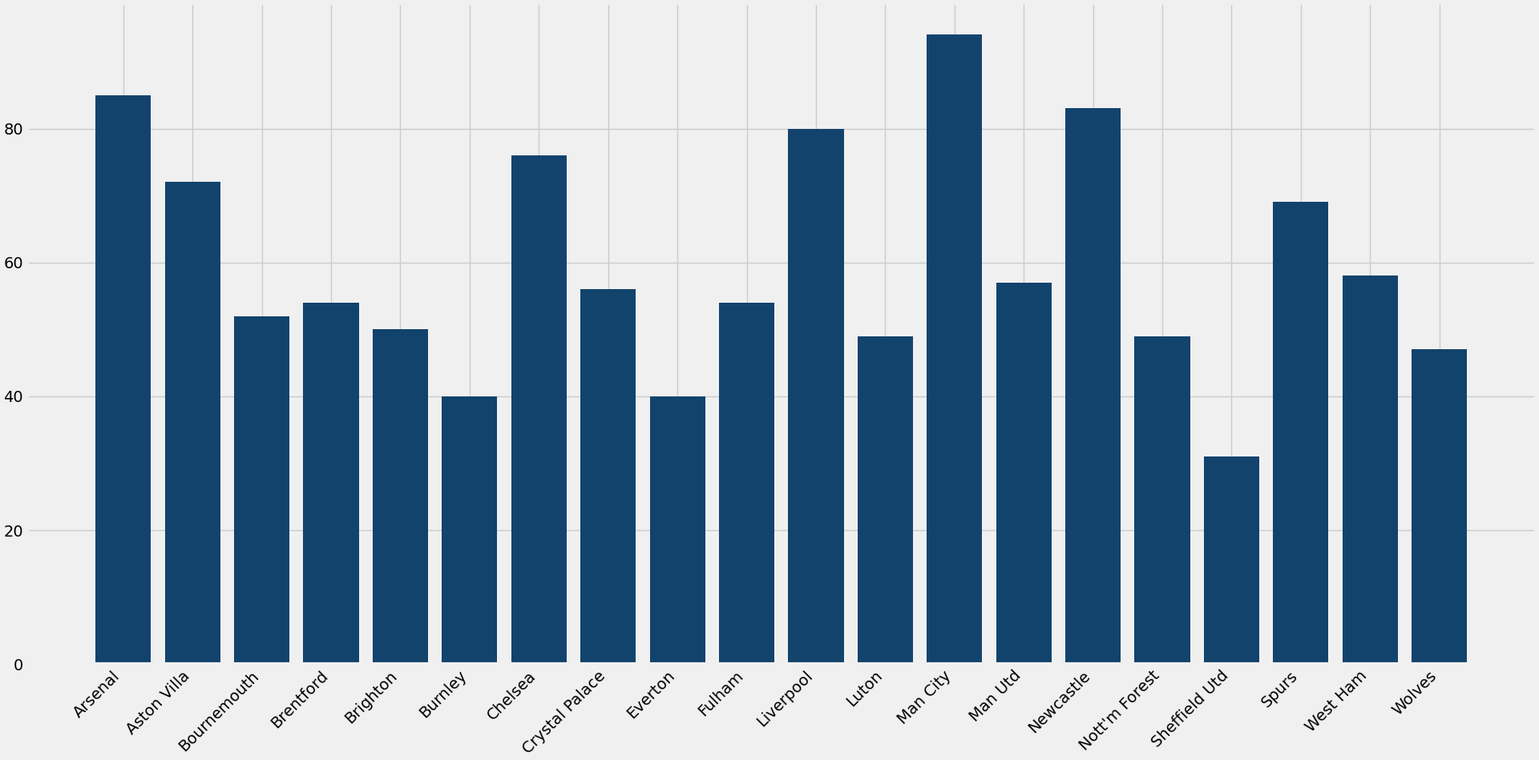
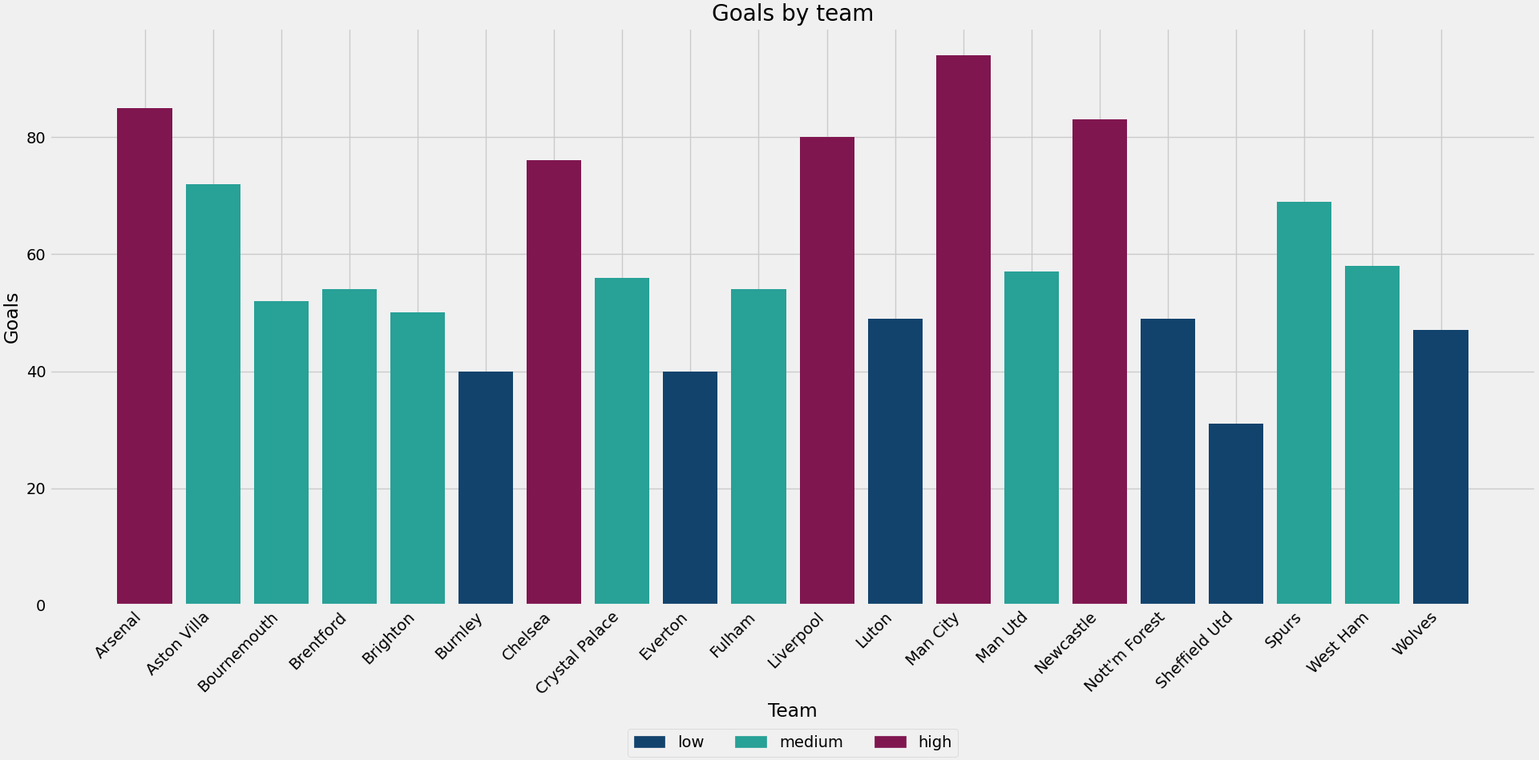
Finish readme

diff --git a/tests/create_dataframes.py b/tests/create_dataframes.py
@@ -1,215 +1,5 @@
-# speedy-charts
+import pandas as pd
 
-## Description
-This package is designed to make simple plotting easier, applying a logical syntax to a matplotlib backend!
-
-The following chart types are supported: Bar, Line, Scatter, Stacked Bar, Horizontal Stacked Bar, Grouped Bar
-
-## Installation
-To install the package, run the following code in the terminal:
-```terminal
-pip install speedy_charts@git+https://github.com/joey-frees/speedy-charts
-```
-Or run an equivalent command for your package manager of choice, for example in poetry:
-```terminal 
-poetry add speedy_charts@git+https://github.com/joey-frees/speedy-charts
-```
-
-## Usage
-### Importing the package
-To use the package you should use the following import statements at the top of your script:
-
-```python
-import matplotlib
-matplotlib.use('TkAgg')
-import matplotlib.pyplot as plt
-
-from speedy_charts.charts import Bar, Scatter, StackedBar, HorizontalStackedBar, GroupedBar, Line
-from speedy_charts.palettes import af_categorical
-```
-
-You can choose to only specify the charts and palettes htat you need for your specific task.
-
-The ```matplotlib.use('TkAgg')``` ensures that the plots can be displayed interactively.
-
-### General usage guidance
-The package syntax is based around two elements:
-1. The chart object - here, you specify arguments relating to the data that goes into the chart
-2. The plot method - here, you specify arguments relating to the visual aspects of the chart
-
-The chart object for example, contains arguments relating to the dataframe you are plotting from, x/y axis values and categorisation if applicable.
-
-The plot method on the other hand, contains arguments relating to colour palette, title, x/y axis labels and legend.
-
-You can also apply any additional transformations to the chart that aren't included in the plot method using standard matplotlib pyplot methods.
-
-**__Please note, you can recreate all of the dataframes used in the example code by running the code in '[Dataframes for chart examples](...)' section below.__**
-
-### Bar
-#### Basic Bar
-For a basic bar chart, you need to provide, x and y axis values and the dataframe in the chart object.
-
-All other arguments, including those in the plot method are optional, however axis labels and a title are recommended at a minimum.
-
-```python
-bar = Bar(x = 'team_x', y = 'goals_scored', df = df_season_team)
-
-plt.xticks(rotation=45, ha = 'right')
-
-plt.show()
-```
-
-<img src="assets/basic_bar.png" alt="Description" width="800" height="480">
-
-This code creates a basic bar chart, but also includes a transformation using a standard matplotlib method 'xticks' to rotate the x-axis labels.
-
-
-#### Applying categorical colours
-You can also add category arguments to a standard bar chart to colour the bars by a categorical or numeric variable:
-* If using a categorical column, this can be achieved by providing the 'category_column' arguments
-* If using a numeric column, this can be achieved by providing the 'category_column', 'category_list' and 'custom_ranges' arguments
-
-```python
-chart = Bar(x = 'team_x', y = 'goals_scored', df = df_season_team, category_column='goals_scored', category_list=['low', 'medium', 'high'], custom_ranges=[0,50,75,float('inf')])
-
-chart.plot(x_label='Team', y_label='Goals', title='Goals by team')
-
-plt.xticks(rotation=45, ha = 'right')
-
-plt.show()
-```
-
-<img src="assets/bar.png" alt="Description" width="800" height="480">
-
-
-In this example, the 'custom_ranges' argument specifies the ranges of the category_column that the colours will correspond to and the 'category_list' argument provides names for the ranges.
-Please note that the 'category_list' is always one element smaller than the 'custom_ranges', list.
-
-### Grouped Bar
-A grouped bar chart takes the same arguments as a standard bar chart but requires multiple y-axis values passed as a list.
-
-```python
-chart = GroupedBar(x = 'team_x', y = ['goals_scored', 'assists', 'yellow_cards'], df = df_season_team)
-
-chart.plot(colour_palette=af_categorical, title='Stats by Team', x_label='Team', y_label='Goals/Assists/Yellow Cards', legend=True)
-
-plt.xticks(rotation=45, ha = 'right')
-
-plt.show()
-```
-
-<img src="assets/grouped_bar.png" alt="Description" width="800" height="480">
-
-### Stacked Bar
-A stacked bar chart takes the same arguments as a standard bar chart but requires multiple y-axis values passed as a list, similar to the grouped bar.
-
-```python
-chart = StackedBar(x = 'team_x', y = ['goals_scored', 'assists', 'yellow_cards'], df = df_season_team)
-
-chart.plot(colour_palette=af_categorical, title='Stats by Team', x_label='Team', y_label='Goals/Assists/Yellow Cards', legend=True)
-
-plt.xticks(rotation=45, ha = 'right')
-
-plt.show()
-```
-
-<img src="assests/stacked_bar.png" alt="Description" width="800" height="480">
-
-### Horizontal Stacked Bar
-A horizontal stacked bar chart takes the same arguments as a standard bar chart but requires multiple y-axis values passed as a list, similar to the grouped bar and stacked bar.
-
-```python
-chart = HorizontalStackedBar(x = 'team_x', y = ['goals_scored', 'assists', 'yellow_cards'], df = df_season_team)
-
-chart.plot(colour_palette=af_categorical, title='Stats by Team', x_label='Goals/Assists/Yellow Cards', y_label='Team', legend=True)
-
-plt.show()
-```
-
-<img src="assets/horizontal_bar.png" alt="Description" width="800" height="480">
-
-### Line
-The code for producing a line chart also follows the structure of the standard bar and alternative bar charts.
-If you are creating a line chart with multiple lines you can supp;ly multiple y-axis values as a list.
-
-```python
-chart = Line(x = 'GW', y = ['cumulative_goals', 'cumulative_assists'], df = df_haaland)
-
-chart.plot(title='Haaland - Cumulative goals/assists', x_label='GW', y_label='Goals/Assists', legend=True)
-
-plt.show()
-```
-
-<img src="assets/line.png" alt="Description" width="800" height="480">
-
-### Scatter
-For a basic scatter plot the syntax is very similar to any other plot with x and y-axis values and a dataframe supplied in the initial chart object and the visual options defined in the plot method
-To add in categorical colours to the plot you will need to supply a category column argument. In this example an optional 'category list' argument is also supplied to re-order the categories and an alternative colour palette specified.
-
-```python
-chart = Scatter(x = 'minutes', y = 'influence', df = df_season_players, category_column='position', category_list=['GK', 'DEF', 'MID', 'FWD'])
-
-chart.plot(title='Influence by average minutes split by position', x_label='Mean Minutes', y_label='Mean Influence')
-
-plt.show()
-```
-
-<img src="assets/scatter.png" alt="Description" width="800" height="480">
-
-Similar to the bar chart you can add in custom ranges to the scatter plot by providing the 'category_list' and 'custom_ranges' arguments. The custom ranges are defined in the same way as the bar chart.
-In addition, there is an alternative colour palette applied to the scatter
-
-```python
-chart = Scatter(x = 'minutes', y = 'influence', df = df_season_players, category_column='influence', category_list=['Low', 'Medium', 'High', 'Very High'], custom_ranges=[0, 10, 20, 30, float('inf')])
-
-chart.plot(colour_palette=['#A1DAB4', '#41B6C4', '#2C7FB8', '#003479'], title='Influence by average minutes split by position', x_label='Mean Minutes', y_label='Mean Influence')
-
-plt.show()
-```
-
-<img src="assets/scatter_ranges.png" alt="Description" width="800" height="480">
-
-### Colour Palettes
-This package also includes a number of colour palettes that can be used in the plot method. The default palette consists of categorical colours.
-You can define the colour palette you want to use by specifying the 'colour_palette' argument in the plot method.
-
-These are defined in the palettes.py file and include:
-* af_categorical - a categorical colour palette with the standard analysis function colours
-* std_sequential_5/7/9 - a sequential colour palette with 5, 7 or 9 colours
-* oth_sequential_5/7/9 - a sequential colour palette with 5, 7 or 9 alternative colours
-* std_diverging_5/7/9 - a diverging colour palette with 5, 7 or 9 colours
-* oth_diverging_5/7/9 - a diverging colour palette with 5, 7 or 9 alternative colours
-
-You can also pass a custom colour palette to a chart by supplying a list of hex codes
-
-```python
-chart = Scatter(x = 'minutes', y = 'influence', df = df_season_players, category_column='influence', category_list=['Low', 'Medium', 'High', 'Very High'], custom_ranges=[0, 10, 20, 30, float('inf')])
-
-chart.plot(colour_palette=['#A1DAB4', '#41B6C4', '#2C7FB8', '#003479'], title='Influence by average minutes split by position', x_label='Mean Minutes', y_label='Mean Influence')
-
-plt.show()
-```
-
-<img src="assets/scatter_palette.png" alt="Description" width="800" height="480">
-
-### Themes
-Standard styling is applied to the package by default, but you can also apply a custom theme to the chart by using the 'theme' argument in the plot method.
-You can use standard matplotlib themes, pre-defined mplstyles, or create your own.
-
-Below is an example of how to apply an inbuilt matplotlib style:
-
-<img src="assets/scatter_ggplot.png" alt="Description" width="800" height="480">
-
-To apply a custom theme using an mplstyle you would structure your theme argument as follows:
-
-```python
-chart.plot(theme= 'speedy_charts.mplstyles.custom_theme')
-```
-
-## Dataframes for chart examples
-All example charts can be created using the following dataframes. You need to initialise these for the example code to work.
-
-```python
 df_season_team = {
     'team_x':['Arsenal', 'Aston Villa', 'Bournemouth', 'Brentford', 'Brighton', 'Burnley', 'Chelsea', 'Crystal Palace', 'Everton', 'Fulham', 'Liverpool', 'Luton', 'Man City', 'Man Utd', 'Newcastle', "Nott'm Forest", 'Sheffield Utd', 'Spurs', 'West Ham', 'Wolves'],
     'goals_scored':[85, 72, 52, 54, 50, 40, 76, 56, 40, 54, 80, 49, 94, 57, 83, 49, 31, 69, 58, 47],
@@ -218,9 +8,8 @@ df_season_team = {
 }
 
 df_season_team = pd.DataFrame(df_season_team)
-```
 
-```python
+
 df_season_players = {
     'position': ['FWD', 'DEF', 'DEF', 'GK', 'MID', 'DEF', 'MID', 'DEF', 'GK', 'MID', 'DEF', 'DEF', 'MID', 'MID', 'FWD', 'FWD', 'GK', 'DEF', 'MID', 'MID', 'FWD', 'FWD', 'MID', 'MID', 'MID', 'DEF', 'MID', 'DEF', 'FWD', 'DEF', 'MID', 'DEF', 'DEF', 'DEF', 'GK', 'GK', 'MID', 'MID', 'GK', 'GK', 'MID', 'MID', 'MID', 'DEF', 'DEF', 'DEF', 'MID', 'FWD', 'MID', 'MID', 'DEF', 'DEF', 'MID', 'MID', 'GK', 'MID', 'GK', 'DEF', 'DEF', 'MID', 'MID', 'MID', 'MID', 'MID', 'FWD', 'FWD', 'DEF', 'MID', 'FWD', 'FWD', 'GK', 'FWD', 'MID', 'DEF', 'DEF', 'DEF', 'DEF', 'MID', 'DEF', 'GK', 'GK', 'DEF', 'MID', 'DEF', 'DEF', 'MID', 'DEF', 'DEF', 'DEF', 'DEF', 'DEF', 'MID', 'FWD', 'MID', 'DEF', 'MID', 'DEF', 'DEF', 'DEF', 'DEF', 'MID', 'GK', 'MID', 'FWD', 'GK', 'MID', 'MID', 'MID', 'DEF', 'MID', 'MID', 'MID', 'MID', 'MID', 'GK', 'DEF', 'MID', 'MID', 'MID', 'MID', 'MID', 'MID', 'MID', 'FWD', 'DEF', 'GK', 'MID', 'FWD', 'DEF', 'FWD', 'DEF', 'DEF', 'FWD', 'MID', 'GK', 'MID', 'MID', 'MID', 'FWD', 'FWD', 'MID', 'FWD', 'MID', 'MID', 'DEF', 'DEF', 'MID', 'MID', 'FWD', 'DEF', 'DEF', 'DEF', 'FWD', 'DEF', 'MID', 'MID', 'MID', 'FWD', 'DEF', 'FWD', 'MID', 'DEF', 'DEF', 'MID', 'MID', 'DEF', 'DEF', 'MID', 'DEF', 'DEF', 'DEF', 'DEF', 'DEF', 'FWD', 'MID', 'GK', 'MID', 'MID', 'FWD', 'DEF', 'MID', 'FWD', 'FWD', 'MID', 'DEF', 'MID', 'GK', 'FWD', 'MID', 'FWD', 'MID', 'GK', 'DEF', 'GK', 'MID', 'FWD', 'MID', 'MID', 'MID', 'GK', 'FWD', 'GK', 'DEF', 'FWD', 'DEF', 'DEF', 'MID', 'DEF', 'MID', 'MID', 'FWD', 'FWD', 'DEF', 'GK', 'FWD', 'MID', 'MID', 'FWD', 'MID', 'MID', 'MID', 'DEF', 'MID', 'MID', 'GK', 'FWD', 'GK', 'MID', 'FWD', 'DEF', 'GK', 'MID', 'MID', 'FWD', 'DEF', 'DEF', 'DEF', 'MID', 'MID', 'MID', 'GK', 'FWD', 'FWD', 'MID', 'MID', 'MID', 'DEF', 'DEF', 'FWD', 'DEF', 'MID', 'GK', 'MID', 'DEF', 'FWD', 'FWD', 'DEF', 'GK', 'DEF', 'MID', 'MID', 'MID', 'DEF', 'DEF', 'GK', 'DEF', 'FWD', 'MID', 'DEF', 'FWD', 'MID', 'FWD', 'MID', 'GK', 'MID', 'MID', 'MID', 'FWD', 'FWD', 'MID', 'DEF', 'GK', 'DEF', 'MID', 'MID', 'DEF', 'MID', 'GK', 'FWD', 'MID', 'MID', 'DEF', 'MID', 'DEF', 'MID', 'MID', 'GK', 'MID', 'MID', 'DEF', 'MID', 'FWD', 'MID', 'MID', 'DEF', 'MID', 'DEF', 'MID', 'DEF', 'MID', 'FWD', 'DEF', 'DEF', 'MID', 'MID', 'MID', 'MID', 'DEF', 'DEF', 'GK', 'MID', 'FWD', 'GK', 'MID', 'MID', 'DEF', 'MID', 'DEF', 'FWD', 'DEF', 'GK', 'MID', 'DEF', 'MID', 'DEF', 'DEF', 'MID', 'DEF', 'FWD', 'GK', 'MID', 'MID', 'MID', 'MID', 'DEF', 'GK', 'FWD', 'MID', 'MID', 'MID', 'MID', 'MID', 'MID', 'MID', 'MID', 'MID', 'DEF', 'DEF', 'MID', 'DEF', 'DEF', 'MID', 'MID', 'DEF', 'MID', 'MID', 'MID', 'MID', 'GK', 'DEF', 'DEF', 'DEF', 'GK', 'MID', 'GK', 'FWD', 'MID', 'DEF', 'DEF', 'DEF', 'DEF', 'MID', 'GK', 'DEF', 'FWD', 'FWD', 'DEF', 'FWD', 'MID', 'MID', 'FWD', 'MID', 'MID', 'MID', 'MID', 'MID', 'MID', 'MID', 'FWD', 'DEF', 'DEF', 'MID', 'DEF', 'FWD', 'GK', 'DEF', 'MID', 'FWD', 'DEF', 'MID', 'FWD', 'MID', 'GK', 'MID', 'DEF', 'DEF', 'DEF', 'MID', 'DEF', 'MID', 'FWD', 'MID', 'DEF', 'FWD', 'DEF', 'DEF', 'MID', 'DEF', 'GK', 'MID', 'DEF', 'MID', 'MID', 'GK', 'MID', 'GK', 'DEF', 'DEF', 'MID', 'DEF', 'MID', 'MID', 'MID', 'DEF', 'MID', 'MID', 'GK', 'DEF', 'GK', 'MID', 'FWD', 'MID', 'DEF', 'DEF', 'MID', 'FWD', 'DEF', 'DEF', 'MID', 'MID', 'MID', 'MID', 'MID', 'MID', 'DEF', 'MID', 'MID', 'DEF', 'MID', 'MID', 'GK', 'GK', 'MID', 'FWD', 'DEF', 'DEF', 'GK', 'MID', 'DEF', 'MID', 'DEF', 'MID', 'FWD', 'DEF', 'DEF', 'GK', 'MID', 'DEF', 'DEF', 'DEF', 'MID', 'DEF', 'DEF', 'DEF', 'GK', 'GK', 'MID', 'MID', 'DEF', 'MID', 'MID', 'FWD', 'MID', 'DEF', 'MID', 'MID', 'DEF', 'DEF', 'FWD', 'MID', 'MID', 'MID', 'MID', 'DEF', 'DEF', 'DEF', 'GK', 'FWD', 'MID', 'DEF', 'DEF', 'DEF', 'MID', 'MID', 'GK', 'DEF', 'MID', 'MID', 'MID', 'GK', 'MID', 'DEF', 'MID', 'MID', 'MID', 'DEF', 'FWD', 'DEF', 'DEF', 'FWD', 'MID', 'DEF', 'MID', 'DEF', 'DEF', 'MID', 'MID', 'DEF', 'MID', 'DEF', 'MID', 'DEF', 'MID', 'DEF', 'DEF', 'GK', 'DEF', 'GK', 'MID', 'MID', 'MID', 'GK', 'MID', 'GK', 'GK', 'FWD', 'GK', 'GK', 'MID', 'MID', 'FWD', 'DEF', 'MID', 'MID', 'MID', 'MID', 'FWD', 'MID', 'DEF', 'GK', 'DEF', 'GK', 'MID', 'DEF', 'GK', 'GK', 'MID', 'MID', 'DEF', 'GK', 'MID', 'DEF', 'DEF', 'DEF', 'DEF', 'DEF', 'DEF', 'MID', 'MID', 'MID', 'DEF', 'FWD', 'FWD', 'MID', 'MID', 'FWD', 'MID', 'DEF', 'DEF', 'MID', 'MID', 'MID', 'MID', 'DEF', 'DEF', 'MID', 'MID', 'MID', 'MID', 'MID', 'MID', 'MID', 'MID', 'DEF', 'DEF', 'MID', 'MID', 'MID', 'MID', 'MID', 'DEF', 'DEF', 'FWD', 'DEF', 'MID', 'DEF', 'DEF', 'DEF', 'FWD', 'DEF', 'GK', 'FWD', 'MID', 'MID', 'MID', 'MID', 'MID', 'MID', 'FWD', 'GK', 'DEF', 'DEF', 'DEF', 'DEF', 'FWD', 'GK', 'DEF', 'MID', 'FWD', 'MID', 'DEF', 'MID', 'GK', 'MID', 'FWD', 'DEF', 'DEF', 'MID', 'MID', 'MID', 'MID', 'DEF', 'DEF', 'MID', 'MID', 'MID', 'MID', 'MID', 'MID', 'DEF', 'DEF', 'MID', 'DEF', 'MID', 'DEF', 'MID', 'MID', 'MID', 'FWD', 'MID', 'GK', 'DEF', 'MID', 'DEF', 'FWD', 'DEF', 'FWD', 'DEF', 'DEF', 'MID', 'GK', 'MID', 'DEF', 'FWD', 'DEF', 'DEF', 'MID', 'DEF', 'DEF', 'DEF', 'MID', 'DEF', 'GK', 'GK', 'MID', 'FWD', 'MID', 'FWD', 'MID', 'FWD', 'MID', 'FWD', 'MID', 'MID', 'MID', 'MID', 'DEF', 'DEF', 'MID', 'MID', 'DEF', 'MID', 'MID', 'DEF', 'GK', 'DEF', 'GK', 'GK', 'FWD', 'MID', 'MID', 'MID', 'MID', 'MID', 'DEF', 'FWD', 'MID', 'MID', 'GK', 'DEF', 'MID', 'MID', 'DEF', 'MID', 'DEF', 'DEF', 'MID', 'DEF', 'DEF', 'MID', 'MID', 'FWD', 'MID', 'MID', 'MID', 'MID', 'MID', 'MID', 'GK', 'DEF', 'MID', 'GK', 'DEF', 'MID', 'MID', 'FWD', 'DEF', 'MID', 'DEF', 'MID', 'FWD', 'DEF', 'GK', 'GK', 'DEF', 'MID', 'DEF', 'MID', 'DEF', 'DEF', 'FWD', 'GK', 'MID', 'GK', 'MID', 'GK', 'DEF', 'FWD', 'DEF', 'DEF', 'MID', 'MID', 'MID', 'GK', 'GK', 'DEF', 'GK', 'MID', 'MID', 'MID', 'DEF', 'DEF', 'MID', 'DEF', 'DEF', 'MID', 'MID', 'MID', 'MID', 'DEF', 'MID', 'MID', 'DEF', 'FWD', 'DEF', 'DEF', 'DEF', 'GK', 'DEF', 'DEF', 'GK', 'GK', 'MID', 'DEF', 'DEF', 'MID', 'DEF', 'MID', 'GK', 'GK', 'DEF', 'FWD', 'DEF', 'MID', 'FWD', 'DEF', 'MID', 'DEF', 'DEF', 'MID', 'FWD', 'MID', 'MID', 'DEF', 'MID', 'MID', 'DEF', 'FWD', 'MID', 'FWD', 'MID', 'MID', 'MID', 'GK', 'DEF', 'FWD', 'DEF', 'MID', 'GK'],
     'influence': [0.0, 1.5473684210526315, 1.7526315789473683, 1.9263157894736842, 1.3837837837837839, 10.38421052631579, 12.168421052631578, 0.0, 0.0, 2.1842105263157894, 8.852631578947367, 6.636842105263158, 15.9375, 4.437837837837837, 0.0, 0.0, 0.0, 0.0, 7.430769230769231, 13.873684210526317, 0.9263157894736843, 0.16842105263157894, 13.26842105263158, 0.0, 0.0, 0.06842105263157895, 5.184210526315789, 0.0, 23.089473684210525, 5.731578947368422, 18.74736842105263, 0.0, 18.142105263157895, 2.076470588235294, 0.0, 17.663157894736845, 0.0, 0.0, 26.926315789473687, 0.0, 3.0789473684210527, 0.0, 9.31578947368421, 0.0, 8.868421052631579, 4.5473684210526315, 0.17894736842105263, 0.0, 2.3157894736842106, 13.25263157894737, 4.370588235294117, 14.531578947368422, 0.0, 7.38, 29.463157894736838, 1.9157894736842105, 0.0, 14.552631578947368, 3.4473684210526314, 1.0947368421052632, 3.4685714285714284, 14.11578947368421, 21.647368421052633, 0.0, 1.7684210526315791, 13.336842105263159, 21.205263157894734, 6.521052631578947, 0.0, 0.0, 13.5, 1.989473684210526, 1.9368421052631581, 0.0, 7.494736842105263, 13.61578947368421, 13.847368421052632, 0.0, 0.3, 0.0, 14.24736842105263, 0.0, 17.344444444444445, 3.378947368421053, 7.757894736842106, 0.005263157894736842, 5.826315789473685, 0.0, 0.0, 2.2263157894736842, 8.810526315789474, 4.821052631578948, 0.07407407407407407, 0.0, 0.0, 0.17037037037037037, 0.0, 0.0, 20.15263157894737, 8.852631578947367, 19.66842105263158, 28.152631578947368, 0.07894736842105263, 0.0, 0.0, 7.668421052631579, 0.30526315789473685, 8.7, 0.0, 6.742105263157894, 3.0105263157894737, 0.0, 0.0, 0.0, 0.0, 0.0, 14.589473684210526, 28.978947368421053, 0.0, 25.48421052631579, 0.7526315789473684, 14.584210526315792, 28.78421052631579, 0.6052631578947368, 0.0, 0.0, 12.868421052631579, 0.0, 0.0, 9.636842105263158, 1.0263157894736843, 12.178947368421053, 7.0, 0.0, 6.873684210526315, 5.137142857142858, 16.489473684210527, 0.0, 2.1999999999999997, 15.326315789473684, 2.0631578947368423, 3.1578947368421053, 1.1647058823529413, 0.0, 0.0, 10.410526315789474, 4.363157894736841, 0.9473684210526315, 10.84736842105263, 1.4736842105263157, 3.7526315789473683, 12.005263157894737, 15.742105263157896, 0.0, 6.726315789473684, 13.205263157894738, 0.0, 3.5421052631578953, 7.16, 13.721052631578948, 32.636842105263156, 3.547368421052632, 9.6, 0.0, 19.86315789473684, 16.089473684210525, 22.15263157894737, 4.578947368421052, 0.05263157894736842, 0.0, 5.964705882352941, 17.273684210526316, 0.0, 0.05263157894736842, 7.852631578947368, 1.8631578947368421, 0.0, 0.08333333333333333, 0.0, 19.470588235294116, 9.68421052631579, 2.168421052631579, 8.58421052631579, 0.0, 19.905263157894737, 0.0, 0.0, 17.38947368421053, 2.3210526315789473, 5.578947368421052, 0.7875, 10.868421052631579, 0.4473684210526316, 11.442105263157895, 25.24736842105263, 0.0, 18.389473684210525, 0.0, 0.0, 0.0, 0.0, 0.0, 14.073684210526315, 0.0, 0.0, 9.74736842105263, 0.0, 19.436842105263157, 12.73157894736842, 0.0, 0.005263157894736842, 1.4823529411764707, 0.0, 5.894117647058824, 10.605263157894736, 0.0, 0.0, 23.736842105263158, 10.889473684210527, 0.0, 20.04736842105263, 0.0, 16.19473684210526, 19.48421052631579, 0.0, 6.184210526315789, 14.521052631578947, 14.36315789473684, 10.75263157894737, 0.0, 0.0, 4.931578947368421, 0.0, 0.0, 8.31578947368421, 17.07894736842105, 4.321052631578947, 1.6421052631578947, 0.0, 0.0, 21.105263157894736, 0.0, 8.376470588235295, 0.0, 0.005714285714285714, 13.873684210526317, 0.0, 1.4684210526315788, 28.805263157894736, 0.0, 0.0, 0.0, 0.1, 17.189473684210526, 0.2857142857142857, 7.2368421052631575, 14.589473684210526, 0.0, 21.75263157894737, 0.0, 6.705263157894737, 1.1842105263157894, 1.6105263157894738, 0.0, 0.0, 0.0, 0.0, 0.0, 0.39999999999999997, 0.0, 0.0, 0.0, 6.815789473684211, 0.0, 0.9526315789473685, 0.0, 2.1789473684210527, 0.6631578947368421, 9.6, 13.168421052631578, 11.805263157894736, 0.0, 17.78421052631579, 0.0, 0.0, 4.405263157894737, 2.5230769230769234, 0.0, 0.0, 5.942105263157895, 3.4375, 0.0, 0.0, 4.738888888888889, 0.0, 0.0, 24.689473684210526, 15.70810810810811, 0.0, 0.0, 0.0, 0.0, 0.3368421052631579, 0.07777777777777778, 2.972972972972973, 1.2684210526315791, 0.0, 5.626315789473685, 0.0, 0.0, 0.0, 12.98421052631579, 9.342105263157896, 9.868421052631579, 7.347368421052631, 10.978947368421052, 0.0, 2.0157894736842104, 3.668421052631579, 0.0, 14.057894736842107, 0.0, 0.0, 0.7736842105263158, 4.964705882352941, 9.405263157894737, 10.705263157894738, 7.836842105263158, 0.0, 18.05263157894737, 0.868421052631579, 0.0, 0.0, 0.0, 9.178947368421053, 8.594736842105263, 0.0, 1.0947368421052632, 7.621052631578948, 15.152941176470586, 0.1105263157894737, 6.326315789473685, 10.74054054054054, 5.268421052631578, 15.410526315789474, 0.0, 4.1421052631578945, 8.836842105263159, 9.942105263157893, 3.263157894736842, 0.0, 0.0, 0.010526315789473684, 0.2578947368421053, 0.23684210526315788, 0.6473684210526316, 0.0, 6.021052631578947, 2.2947368421052627, 6.131578947368421, 0.0, 0.0, 13.857894736842105, 0.8578947368421052, 16.589473684210525, 8.784210526315789, 0.02631578947368421, 4.0210526315789465, 0.2894736842105263, 0.0, 24.089473684210525, 0.07894736842105263, 22.66842105263158, 22.45945945945946, 0.0, 0.09375, 0.0, 16.626315789473683, 0.0, 8.726315789473684, 20.773684210526316, 23.431578947368422, 10.057894736842105, 0.0, 3.6526315789473687, 0.0, 13.536842105263156, 0.0, 0.0, 0.0, 20.394736842105264, 5.582352941176471, 0.0, 10.989473684210527, 7.363157894736842, 0.0, 0.0, 0.6105263157894737, 5.005263157894737, 0.0, 0.0, 0.0, 22.989473684210527, 0.0, 0.0, 8.31578947368421, 0.0, 0.0, 0.0, 1.205263157894737, 0.0, 0.047058823529411764, 0.0, 2.363157894736842, 2.3684210526315788, 5.0736842105263165, 9.163157894736841, 7.768421052631578, 1.8789473684210527, 0.14210526315789473, 0.0, 16.852631578947367, 4.957894736842105, 0.0, 0.13157894736842105, 0.0, 0.0, 9.451428571428572, 0.0, 13.621052631578948, 8.210526315789474, 5.231578947368421, 0.0, 25.50526315789474, 4.352631578947369, 0.0, 0.02702702702702703, 1.25, 0.0, 0.0, 13.131578947368421, 11.952631578947368, 0.17894736842105263, 0.0, 0.0, 0.0, 26.410526315789475, 0.0, 0.0, 17.347368421052632, 15.305263157894737, 12.947368421052632, 8.442105263157895, 14.18421052631579, 2.1315789473684212, 19.394736842105264, 0.05789473684210527, 0.0, 9.494736842105263, 14.561111111111112, 6.173684210526315, 0.0, 0.0, 0.0, 0.10526315789473684, 20.08421052631579, 0.011111111111111112, 0.0, 0.9621621621621622, 8.621052631578946, 0.0, 0.0, 7.368421052631579, 0.0, 0.0, 5.136842105263158, 0.0, 13.88421052631579, 0.0, 2.7842105263157895, 0.0, 0.0, 0.9842105263157894, 0.0, 18.92105263157895, 0.0, 10.878947368421052, 8.338888888888889, 4.178947368421053, 0.0, 0.0, 10.705263157894738, 16.757894736842104, 12.24736842105263, 0.0, 0.0, 1.5578947368421052, 14.831578947368422, 0.0, 0.0, 17.45263157894737, 0.7090909090909091, 1.4421052631578946, 10.38421052631579, 13.689473684210528, 1.8, 21.657894736842106, 5.126315789473685, 0.0, 6.247368421052632, 0.0, 0.0, 0.0, 3.8000000000000003, 7.342105263157895, 16.8875, 0.8368421052631579, 0.0, 0.0, 0.0, 0.0, 0.0, 0.0, 2.278947368421053, 0.0, 11.799999999999999, 15.015789473684212, 16.13157894736842, 6.511764705882353, 6.463157894736842, 2.9631578947368418, 0.0, 0.0, 0.0, 0.08888888888888889, 0.0, 0.0, 5.084210526315789, 3.6514285714285712, 9.378947368421052, 0.0, 0.0, 0.0, 2.9894736842105263, 10.052631578947368, 0.0, 1.6578947368421053, 0.0, 0.0, 11.442105263157895, 1.9315789473684213, 14.11578947368421, 0.46315789473684216, 10.11578947368421, 10.994736842105263, 0.0, 19.342105263157894, 0.0, 0.0, 11.952631578947368, 12.326315789473684, 0.0, 16.36315789473684, 23.326315789473682, 0.0, 0.2222222222222222, 2.436842105263158, 17.394736842105264, 23.957894736842103, 3.8526315789473684, 0.010526315789473684, 3.1, 2.7842105263157895, 6.973684210526316, 0.9578947368421055, 3.789473684210526, 20.657894736842106, 12.663157894736841, 5.684210526315789, 0.0, 6.257894736842106, 0.0, 1.8421052631578947, 0.24210526315789477, 9.989473684210525, 0.0, 0.0, 0.0, 12.242105263157894, 18.325, 0.0, 4.489473684210526, 22.46315789473684, 0.0, 0.0, 2.6894736842105265, 14.325, 1.1578947368421053, 0.0, 0.0, 2.8473684210526318, 0.007692307692307693, 0.0, 0.12352941176470589, 16.51578947368421, 8.121052631578948, 0.15, 0.0, 14.43157894736842, 7.889473684210526, 1.2685714285714285, 0.16666666666666666, 4.278947368421052, 7.747368421052631, 0.0, 0.10526315789473684, 27.205263157894734, 19.062857142857144, 16.147368421052633, 18.50526315789474, 11.1125, 0.0, 12.442105263157895, 8.331578947368422, 19.38285714285714, 9.136842105263158, 0.0, 0.08148148148148149, 0.0, 1.0842105263157895, 11.76842105263158, 17.205263157894734, 0.64, 5.4526315789473685, 0.6263157894736843, 4.726315789473684, 0.0, 11.563157894736843, 8.573684210526316, 10.352631578947367, 8.5, 20.373684210526317, 0.0, 10.011764705882353, 4.077777777777778, 0.0, 0.0, 8.989473684210525, 4.5371428571428565, 23.031578947368423, 0.0, 1.6263157894736842, 13.384210526315789, 0.7111111111111111, 9.463157894736842, 2.9941176470588236, 10.405263157894737, 11.1, 9.93157894736842, 7.742105263157894, 0.0, 2.4210526315789473, 0.0, 0.0, 26.963157894736838, 7.936842105263159, 0.0, 0.6368421052631579, 0.06842105263157895, 5.473684210526316, 2.7736842105263158, 0.2777777777777778, 0.0, 0.0, 0.0, 1.6894736842105265, 12.342105263157896, 10.68421052631579, 26.01578947368421, 12.136842105263158, 0.1368421052631579, 9.778947368421052, 22.07894736842105, 2.863157894736842, 9.23157894736842, 30.389473684210525, 8.005263157894737, 0.10526315789473684, 0.0, 7.4263157894736835, 0.0, 5.300000000000001, 13.23157894736842, 9.373684210526315, 12.647368421052631, 11.773684210526316, 8.836842105263159, 10.694736842105263, 3.615789473684211, 1.1263157894736842, 0.02631578947368421, 0.0, 0.0, 0.5526315789473685, 0.0, 0.2157894736842105, 14.75263157894737, 0.0, 1.9157894736842105, 3.8947368421052633, 0.0, 0.0, 11.857894736842105, 5.121052631578947, 5.078947368421052, 0.075, 27.468421052631577, 10.763157894736842, 0.2777777777777778, 0.0, 0.0972972972972973, 0.0, 0.0, 18.089473684210525, 16.321052631578947, 0.0, 0.0, 2.1894736842105265, 5.5, 0.0, 0.0, 0.0, 8.694736842105263, 15.221052631578948, 0.0, 0.16923076923076924, 8.457894736842105, 0.0, 0.0, 3.9942857142857147, 0.0, 0.0, 13.957894736842105, 1.0263157894736843, 4.965714285714286, 2.473684210526316, 2.2473684210526312, 5.063157894736842, 0.0, 2.3421052631578947, 14.189473684210528, 0.0, 2.857894736842105, 14.473684210526315, 0.0, 4.936842105263158, 0.0, 0.5947368421052631, 10.005128205128205, 2.4315789473684206, 0.0, 0.0, 12.56842105263158, 0.0, 4.676470588235294, 5.1947368421052635, 26.13684210526316, 0.20526315789473684, 4.5052631578947375, 0.0, 0.0, 0.0, 10.178947368421053, 0.0, 7.989473684210527, 7.978947368421053, 6.5, 0.0, 3.805263157894737, 0.88, 0.0, 0.0, 0.0, 0.0, 14.861538461538462, 0.0, 0.0, 0.015789473684210527, 20.973684210526315, 0.2263157894736842, 0.0, 27.805263157894736, 3.094736842105263, 1.1263157894736844, 0.48947368421052634, 0.0, 8.942105263157895, 9.944444444444445, 14.125714285714285, 7.684210526315789, 0.0, 8.821052631578947, 0.7135135135135134, 0.0, 0.0, 7.173684210526316, 0.0, 0.0, 5.221052631578948, 19.778947368421054, 11.363157894736842, 14.473684210526315, 0.0, 15.836842105263157, 6.6000000000000005, 0.0, 0.0, 0.6833333333333332, 0.0, 0.0, 0.0, 0.0, 17.626315789473683, 0.0, 0.09473684210526316, 3.1999999999999997, 0.0, 0.0, 6.994736842105263, 7.805263157894737, 0.0, 0.0, 14.573684210526315, 23.978947368421053, 13.61578947368421, 13.247368421052633, 17.410526315789475, 7.6108108108108095, 0.0, 24.110526315789475, 0.0, 0.0, 0.0, 8.4, 0.6842105263157895, 18.347368421052632, 10.957894736842107, 12.631578947368421, 2.4454545454545453, 8.945945945945946, 0.0, 0.0, 0.0, 1.9842105263157896, 3.4666666666666663, 0.43636363636363634, 0.0, 15.6, 9.715789473684211, 0.5052631578947369, 0.0, 10.605263157894736, 0.07142857142857142, 0.0, 0.0, 9.58421052631579, 0.0, 0.0, 25.977777777777778],
@@ -228,9 +17,8 @@ df_season_players = {
 }
 
 df_season_players = pd.DataFrame(df_season_players)
-```
 
-```python
+
 df_haaland = {
     'GW': [1, 2, 3, 4, 5, 6, 7, 8, 9, 10, 11, 12, 13, 14, 15, 16, 17, 19, 20, 21, 22, 23, 24, 25, 25, 26, 27, 28, 30, 31, 32, 33, 34, 35, 36, 37, 37, 38],
     'goals_scored':[2, 2, 3, 6, 7, 8, 8, 8, 9, 11, 11, 13, 14, 14, 14, 14, 14, 14, 14, 14, 14, 14, 16, 16, 17, 17, 18, 18, 18, 18, 19, 20, 20, 21, 25, 25, 27, 27],
@@ -238,14 +26,3 @@ df_haaland = {
 }
 
 df_haaland = pd.DataFrame(df_haaland)
-```
-
-## Support
-If you have any queries regarding hte package and its usage, please contact me.
-
-## Roadmap
-* Histogram, pie boxplot and heatap charts as well as additional charting options to be added to the package
-* Additional custom themes to be added
-
-## Contributing
-For any ideas on how the package could be improved, or if you find any bugs, please contact me.

diff --git a/tests/create_charts.py b/tests/create_charts.py
@@ -11,16 +11,17 @@ from speedy_charts.palettes import af_categorical
 # Simple Bar
 bar = Bar(x = 'team_x', y = 'goals_scored', df = df_season_team)
 
-bar.plot(colour_palette=af_categorical[0])
+bar.plot(title= 'Goals by team', x_label='Team', y_label='Goals')
 
 plt.xticks(rotation=45, ha = 'right')
 
 plt.show()
 
 
-bar = Bar(x = 'team_x', y = 'goals_scored', df = df_season_team, category_column='goals_scored', category_list=['low', 'medium', 'high'], custom_ranges=[0,50,75,float('inf')])
+# Bar Ranges
+chart = Bar(x = 'team_x', y = 'goals_scored', df = df_season_team, category_column='goals_scored', category_list=['low', 'medium', 'high'], custom_ranges=[0,50,75,float('inf')])
 
-bar.plot(x_label='Team', y_label='Goals', title='Goals by team')
+chart.plot(x_label='Team', y_label='Goals', title='Goals by team')
 
 plt.xticks(rotation=45, ha = 'right')
 
@@ -28,9 +29,9 @@ plt.show()
 
 
 # Grouped Bar
-bar = GroupedBar(x = 'team_x', y = ['goals_scored', 'assists', 'yellow_cards'], df = df_season_team)
+chart = GroupedBar(x = 'team_x', y = ['goals_scored', 'assists', 'yellow_cards'], df = df_season_team)
 
-bar.plot(colour_palette=af_categorical, title='Stats by Team', x_label='Team', y_label='Goals/Assists/Yellow Cards', legend=True)
+chart.plot(colour_palette=af_categorical, title='Stats by Team', x_label='Team', y_label='Goals/Assists/Yellow Cards', legend=True)
 
 plt.xticks(rotation=45, ha = 'right')
 
@@ -38,9 +39,9 @@ plt.show()
 
 
 # Stacked Bar
-bar = StackedBar(x = 'team_x', y = ['goals_scored', 'assists', 'yellow_cards'], df = df_season_team)
+chart = StackedBar(x = 'team_x', y = ['goals_scored', 'assists', 'yellow_cards'], df = df_season_team)
 
-bar.plot(colour_palette=af_categorical, title='Stats by Team', x_label='Team', y_label='Goals/Assists/Yellow Cards', legend=True)
+chart.plot(colour_palette=af_categorical, title='Stats by Team', x_label='Team', y_label='Goals/Assists/Yellow Cards', legend=True)
 
 plt.xticks(rotation=45, ha = 'right')
 
@@ -48,12 +49,11 @@ plt.show()
 
 
 # Horizontal Stacked Bar
-bar = HorizontalStackedBar(x = 'team_x', y = ['goals_scored', 'assists', 'yellow_cards'], df = df_season_team)
+chart = HorizontalStackedBar(x = 'team_x', y = ['goals_scored', 'assists', 'yellow_cards'], df = df_season_team)
 
-bar.plot(colour_palette=af_categorical, title='Stats by Team', x_label='Goals/Assists/Yellow Cards', y_label='Team', legend=True)
+chart.plot(colour_palette=af_categorical, title='Stats by Team', x_label='Goals/Assists/Yellow Cards', y_label='Team', legend=True)
 
 plt.show()
-
 
 
 # Line
@@ -65,8 +65,24 @@ plt.show()
 
 
 # Scatter
+chart = Scatter(x = 'minutes', y = 'influence', df = df_season_players)
+
+chart.plot(title='Influence by average minutes', x_label='Mean Minutes', y_label='Mean Influence')
+
+plt.show()
+
+
+# Scatter Categories
 chart = Scatter(x = 'minutes', y = 'influence', df = df_season_players, category_column='position', category_list=['GK', 'DEF', 'MID', 'FWD'])
 
-chart.plot()
+chart.plot(title='Influence by average minutes split by position', x_label='Mean Minutes', y_label='Mean Influence')
+
+plt.show()
+
+
+# Scatter Ranges
+chart = Scatter(x = 'minutes', y = 'influence', df = df_season_players, category_column='influence', category_list=['Low', 'Medium', 'High', 'Very High'], custom_ranges=[0, 10, 20, 30, float('inf')])
+
+chart.plot(colour_palette=['#A1DAB4', '#41B6C4', '#2C7FB8', '#003479'], title='Influence by average minutes split by position', x_label='Mean Minutes', y_label='Mean Influence')
 
 plt.show()

diff --git a/src/speedy_charts/charts.py b/src/speedy_charts/charts.py
@@ -113,7 +113,7 @@ class Bar(CreateChart):
                 handles = sorted(handles, key=lambda handle: self.category_list.index(handle.get_label()))
 
             else:
-                ax.bar(self.df[self.x], self.df[self.y], color=colour_palette)
+                ax.bar(self.df[self.x], self.df[self.y], color=colour_palette[0])
 
         # Create bar from lists/arrays
         else:
@@ -346,7 +346,7 @@ class Scatter(CreateChart):
             elif self.category_list is not None and self.custom_ranges is not None and len(colour_palette) >= (len(self.custom_ranges)-1):
             # Create a color map for the categories
                 colour_list = self.convert_hex_list_to_rgba(colour_palette)
-                category_colours = self.create_colour_categories(self.df, self.category_column, colour_list, self.category_list, self.custom_ranges)
+                category_colours = self.create_colour_ranges(self.df, self.category_column, colour_list, self.category_list, self.custom_ranges)
                 ax.scatter(self.df[self.x], self.df[self.y], c=self.df['colour'])
                 handles = [mpatches.Patch(color=category_colours[category], label=category) for category in self.category_list]
                 handles = sorted(handles, key=lambda handle: self.category_list.index(handle.get_label()))
@@ -373,8 +373,6 @@ class Scatter(CreateChart):
         ax.set_xlabel(xlabel=x_label)
         ax.set_ylabel(ylabel=y_label)
         ax.set_title(label=title)
-
-        plt.subplots_adjust(bottom=0.3)
 
         # Add legend to plot
         if self.category_column is None:
